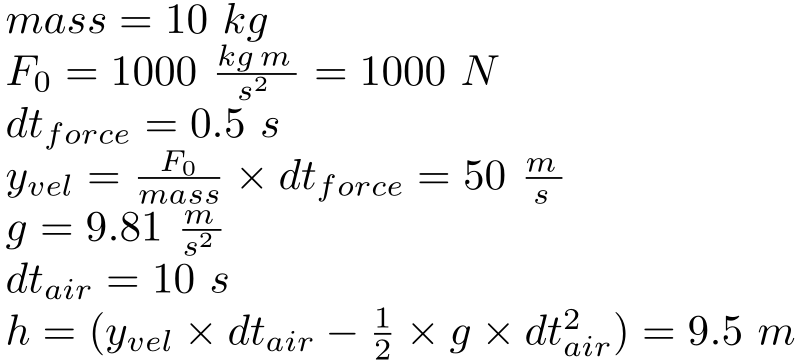
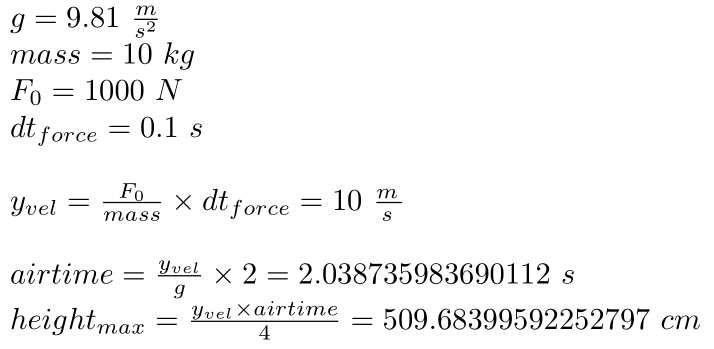
updated readme

diff --git a/README.md b/README.md
@@ -8,47 +8,17 @@ needs a better name
 ## Example
 
 ```
+g = 9.81 m/s^2
 mass = 10 kg
-
-F_0 = 1000 N = ?
-dt_{force} = 0.5 s
+F_0 = 1000 N
+dt_{force} = 0.1 s
 
 y_{vel} = F_0 / mass * dt_{force} = ?
 
-g = 9.81 m/s^2
-dt_{air} = 10 s
-
-h = y_{vel} * dt_{air} - ((1/2) * g * dt_{air}^2) = ?
+airtime = y_{vel} / g * 2 = ?
+height_{max} = y_{vel} * airtime / 4 = ? cm
 ```
 
 Outputs:
 
 ![example 1](images/ex1.png)
-
-___
-
-```
-ln2 = 0.693
-
-k = ln2 / (4.47 * 10^9 * 1 year) = ?
-
-e = 2.71828
-
-hl = 4.47 year * 10^9
-t_{est} = 3.8 year * 10^9
-
-ntn0 = 1 / (e^(k * t_{est})) = ?
-
-mass = 1.515 g
-
-x = (mass - (ntn0 * mass)) / ntn0 = ?
-
-x * ((1 mol) / (238 g)) * ((206 g) / (1 mol)) = ?
-```
-
-Outputs:
-
-
-## Compiling:
-
-Requires GMP, MPFR, and MPC development libraries: <https://docs.rs/gmp-mpfr-sys/1.4.3/gmp_mpfr_sys/index.html>
